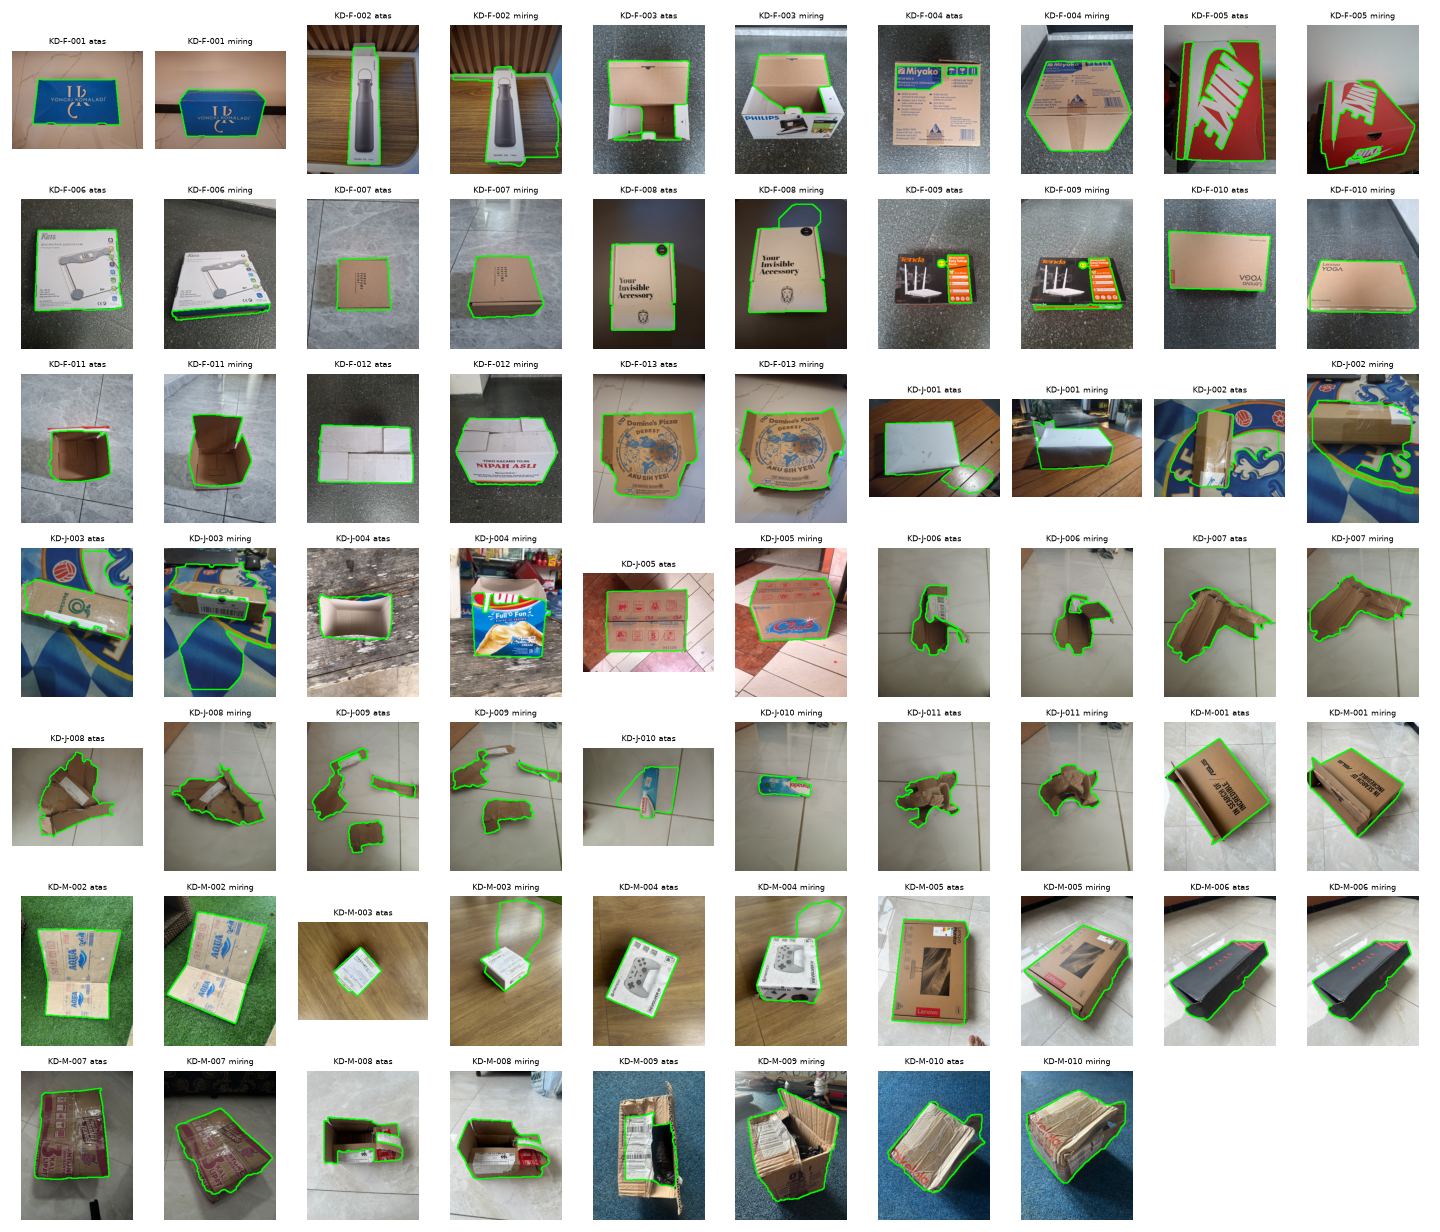
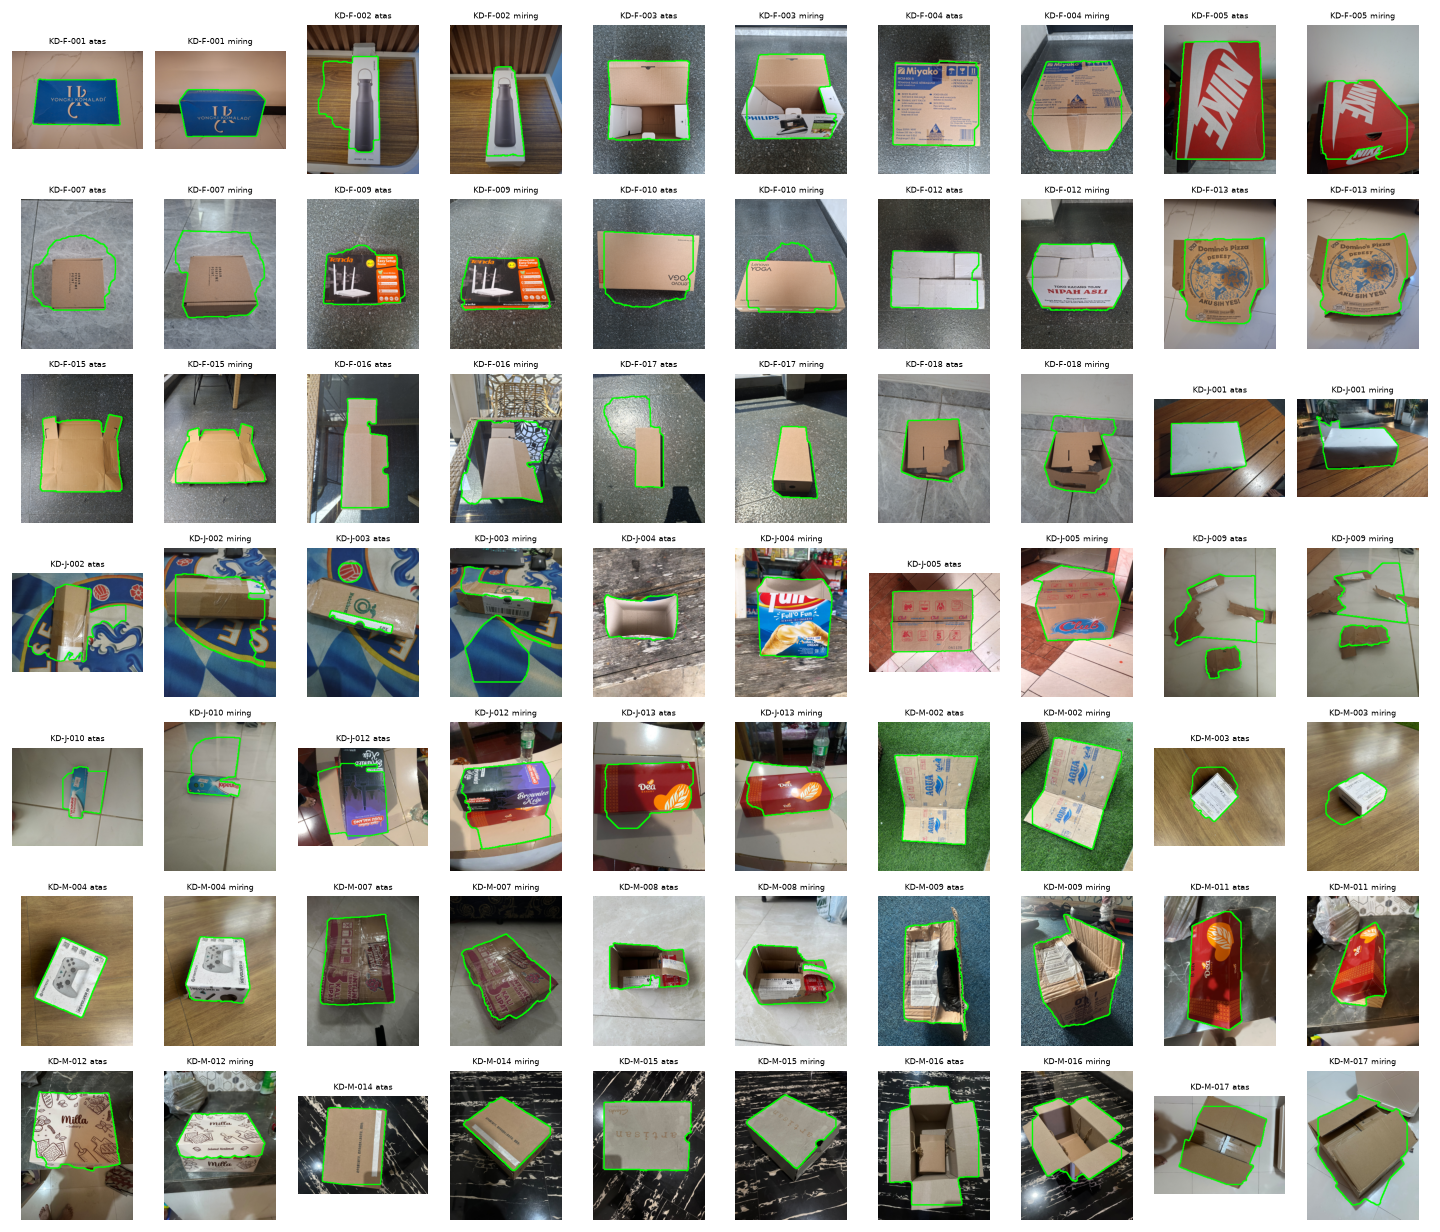
feat: switch segmentation to tuned GrabCut with ROI output

diff --git a/pcd/processing.py b/pcd/processing.py
@@ -1,4 +1,4 @@
-"""Operasi PCD dasar: perbaikan citra, segmentasi, morfologi, dan masking."""
+"""Operasi dasar PCD: enhancement, segmentasi, morfologi, dan masking."""
 
 import cv2
 import numpy as np
@@ -10,14 +10,14 @@ POLARITIES = ("border", "center")
 
 
 def histogram_equalization(img: np.ndarray) -> np.ndarray:
-    """Histogram equalization global pada kanal L (LAB); dipakai sebagai pembanding CLAHE."""
+    """Histogram equalization global pada kanal L, sebagai pembanding CLAHE."""
     lab = cv2.cvtColor(img, cv2.COLOR_BGR2LAB)
     lightness, a, b = cv2.split(lab)
     return cv2.cvtColor(cv2.merge((cv2.equalizeHist(lightness), a, b)), cv2.COLOR_LAB2BGR)
 
 
 def clahe(img: np.ndarray, clip: float = 2.0, tile: int = 8) -> np.ndarray:
-    """CLAHE pada kanal L (LAB) sehingga kontras naik tanpa mengubah warna."""
+    """Tingkatkan kontras citra menggunakan CLAHE pada kanal L."""
     lab = cv2.cvtColor(img, cv2.COLOR_BGR2LAB)
     lightness, a, b = cv2.split(lab)
     lightness = cv2.createCLAHE(clipLimit=clip, tileGridSize=(tile, tile)).apply(lightness)
@@ -25,20 +25,19 @@ def clahe(img: np.ndarray, clip: float = 2.0, tile: int = 8) -> np.ndarray:
 
 
 def gamma_correction(img: np.ndarray, gamma: float) -> np.ndarray:
-    """Koreksi gamma; gamma di bawah 1 mencerahkan, di atas 1 menggelapkan."""
+    """Terapkan koreksi gamma menggunakan lookup table."""
     table = ((np.arange(256) / 255.0) ** gamma * 255).round().astype(np.uint8)
     return cv2.LUT(img, table)
 
 
 def blur(img: np.ndarray, size: int = 5) -> np.ndarray:
-    """Gaussian blur untuk meredam noise dan tekstur halus sebelum threshold."""
     return cv2.GaussianBlur(img, (size, size), 0)
 
 
 def otsu_mask(img: np.ndarray, channel: str = "gray", polarity: str = "border") -> np.ndarray:
-    """Threshold Otsu pada kanal gray atau saturation, objek bernilai 255.
+    """Buat mask menggunakan threshold Otsu pada kanal grayscale atau saturation.
 
-    polarity "border" menganggap tepi foto sebagai latar, "center" menganggap tengah foto sebagai objek.
+    Polarity menentukan orientasi mask berdasarkan area tepi atau tengah citra.
     """
     if channel == "gray":
         values = cv2.cvtColor(img, cv2.COLOR_BGR2GRAY)
@@ -55,20 +54,20 @@ def otsu_mask(img: np.ndarray, channel: str = "gray", polarity: str = "border") 
 
 
 def background_at_border(mask: np.ndarray) -> np.ndarray:
-    """Balik mask kalau tepi foto lebih banyak putih, karena tepi dianggap latar."""
+    """Sesuaikan mask berdasarkan piksel pada tepi citra."""
     border = np.concatenate([mask[0], mask[-1], mask[:, 0], mask[:, -1]])
     return cv2.bitwise_not(mask) if border.mean() > 127 else mask
 
 
 def object_at_center(mask: np.ndarray) -> np.ndarray:
-    """Balik mask kalau bagian putihnya jarang ada di tengah foto."""
+    """Sesuaikan mask berdasarkan dominasi piksel foreground di tengah citra."""
     height, width = mask.shape
     center = mask[height // 4 : 3 * height // 4, width // 4 : 3 * width // 4]
     return cv2.bitwise_not(mask) if center.mean() < mask.mean() else mask
 
 
 def grabcut_mask(img: np.ndarray, margin: float = 0.05, iterations: int = 5) -> np.ndarray:
-    """GrabCut dengan kotak awal di tengah foto; yang di luar kotak dianggap latar pasti."""
+    """Segmentasikan objek menggunakan GrabCut dengan bounding box awal."""
     height, width = img.shape[:2]
     dx, dy = int(width * margin), int(height * margin)
     rect = (dx, dy, width - 2 * dx, height - 2 * dy)
@@ -77,7 +76,10 @@ def grabcut_mask(img: np.ndarray, margin: float = 0.05, iterations: int = 5) -> 
 
 
 def grabcut_from_mask(img: np.ndarray, seed: np.ndarray, border: float = 0.03, iterations: int = 5) -> np.ndarray:
-    """GrabCut yang dimulai dari mask tebakan; pita tipis di tepi foto dianggap latar pasti."""
+    """Perbaiki mask awal menggunakan GrabCut.
+
+    Area di sepanjang tepi citra ditetapkan sebagai background.
+    """
     height, width = img.shape[:2]
     labels = np.where(seed > 0, cv2.GC_PR_FGD, cv2.GC_PR_BGD).astype(np.uint8)
     band = max(int(min(height, width) * border), 1)
@@ -87,8 +89,6 @@ def grabcut_from_mask(img: np.ndarray, seed: np.ndarray, border: float = 0.03, i
 
 
 def run_grabcut(img: np.ndarray, labels: np.ndarray, rect, mode: int, iterations: int) -> np.ndarray:
-    """Jalankan GrabCut dan kembalikan mask objek 0/255."""
-    # GrabCut memakai k-means dengan titik awal acak, jadi seed dikunci agar hasilnya selalu sama.
     cv2.setRNGSeed(SEED)
     background_model = np.zeros((1, 65), np.float64)
     foreground_model = np.zeros((1, 65), np.float64)
@@ -98,17 +98,16 @@ def run_grabcut(img: np.ndarray, labels: np.ndarray, rect, mode: int, iterations
 
 
 def plausible_mask(mask: np.ndarray, min_area: float = 0.03, max_area: float = 0.8, max_border: float = 0.3) -> bool:
-    """Mask dianggap wajar kalau luasnya masuk akal dan tidak banyak menempel di tepi foto."""
+    """Validasi mask berdasarkan luas area dan proporsi piksel di tepi citra."""
     area = (mask > 0).mean()
     border = np.concatenate([mask[0], mask[-1], mask[:, 0], mask[:, -1]])
     return min_area <= area <= max_area and (border > 0).mean() <= max_border
 
 
 def clean_mask(mask: np.ndarray, size: int = 5, min_share: float = 0.1, fill_holes: bool = True) -> np.ndarray:
-    """Opening, closing, buang komponen kecil, lalu isi lubang kalau fill_holes aktif.
+    """Bersihkan mask melalui operasi morfologi dan seleksi contour.
 
-    Komponen disimpan kalau luasnya minimal min_share dari komponen terbesar, jadi potongan
-    sampah yang terpisah tetap ikut dan bintik kecil di latar terbuang.
+    Contour dipertahankan berdasarkan luas relatif terhadap contour terbesar.
     """
     kernel = cv2.getStructuringElement(cv2.MORPH_ELLIPSE, (size, size))
     mask = cv2.morphologyEx(mask, cv2.MORPH_OPEN, kernel)
@@ -123,15 +122,25 @@ def clean_mask(mask: np.ndarray, size: int = 5, min_share: float = 0.1, fill_hol
 
 
 def apply_mask(img: np.ndarray, mask: np.ndarray) -> np.ndarray:
-    """Hitamkan semua piksel di luar mask."""
     return cv2.bitwise_and(img, img, mask=mask)
 
 
 def crop_roi(img: np.ndarray, mask: np.ndarray, pad: int = 10) -> np.ndarray:
-    """Potong citra di sekitar objek dengan sedikit ruang; kalau mask kosong, citra dikembalikan utuh."""
+    """Crop area objek berdasarkan mask dengan tambahan padding.
+
+    Jika mask kosong, citra asli dikembalikan.
+    """
     points = cv2.findNonZero(mask)
     if points is None:
         return img
     x, y, width, height = cv2.boundingRect(points)
     top, left = max(y - pad, 0), max(x - pad, 0)
     return img[top : y + height + pad, left : x + width + pad]
+
+
+def pad_square(img: np.ndarray) -> np.ndarray:
+    """Tambahkan padding untuk mempertahankan rasio aspek citra."""
+    height, width = img.shape[:2]
+    size = max(height, width)
+    top, left = (size - height) // 2, (size - width) // 2
+    return cv2.copyMakeBorder(img, top, size - height - top, left, size - width - left, cv2.BORDER_CONSTANT, value=0)

diff --git a/pcd/pipeline.py b/pcd/pipeline.py
@@ -1,39 +1,48 @@
-"""Pipeline PCD yang dipakai ML, DL, dan demo.
+"""Pipeline PCD untuk ML, DL, dan demo.
 
-Kontrak run_pcd(img_bgr), dengan input yang sudah melalui core.image.resize_43:
-    "resized"   : citra input apa adanya (BGR)
-    "enhanced"  : citra setelah perbaikan kontras (BGR)
-    "mask"      : uint8 0/255, objek = 255, ukurannya sama dengan citra
-    "segmented" : citra enhanced dengan latar dihitamkan (BGR)
+run_pcd menerima citra hasil core.image.resize_43 dengan output:
+    "resized"   : citra input (BGR)
+    "enhanced"  : hasil CLAHE (BGR)
+    "mask"      : mask biner uint8 (objek = 255)
+    "segmented" : citra enhanced dengan background hitam (BGR)
+    "roi"       : crop objek berbentuk persegi (BGR)
 
-Isi pipeline masih sementara untuk Progress 2 dan ditetapkan di Progress 3 setelah dievaluasi dengan IoU/Dice.
+Segmentasi dilakukan pada citra asli menggunakan GrabCut, sedangkan CLAHE
+diterapkan pada citra hasil. Parameter GrabCut dituning menggunakan 30 citra
+train yang sudah dianotasi dengan hasil IoU: 0,885.
 """
 
 import numpy as np
 
 from pcd import processing
 
+GRABCUT_MARGIN = 0.10
+GRABCUT_RETRY_MARGIN = 0.05
+GRABCUT_ITERATIONS = 10
+ROI_PADDING = 10
+
 
 def run_pcd(img_bgr: np.ndarray) -> dict:
-    """CLAHE, segmentasi gabungan Otsu saturation dan GrabCut, morfologi, lalu masking."""
+    mask = segment(img_bgr)
     enhanced = processing.clahe(img_bgr)
-    mask = processing.clean_mask(segment(enhanced))
+    segmented = processing.apply_mask(enhanced, mask)
     return {
         "resized": img_bgr,
         "enhanced": enhanced,
         "mask": mask,
-        "segmented": processing.apply_mask(enhanced, mask),
+        "segmented": segmented,
+        "roi": processing.pad_square(processing.crop_roi(segmented, mask, ROI_PADDING)),
     }
 
 
 def segment(img: np.ndarray) -> np.ndarray:
-    """Otsu saturation sebagai tebakan awal GrabCut.
+    """Segmentasikan objek menggunakan GrabCut dan operasi morfologi.
 
-    Kalau tebakan atau hasil GrabCut-nya tidak wajar, GrabCut diulang dari kotak di tengah foto.
+    Jika mask kosong, GrabCut diulang dengan margin lebih kecil.
+    Jika masih kosong, seluruh citra digunakan sebagai foreground.
     """
-    seed = processing.clean_mask(processing.otsu_mask(processing.blur(img), "saturation"))
-    if processing.plausible_mask(seed):
-        mask = processing.grabcut_from_mask(img, seed)
-        if processing.plausible_mask(processing.clean_mask(mask)):
+    for margin in (GRABCUT_MARGIN, GRABCUT_RETRY_MARGIN):
+        mask = processing.clean_mask(processing.grabcut_mask(img, margin, GRABCUT_ITERATIONS))
+        if mask.any():
             return mask
-    return processing.grabcut_mask(img)
+    return np.full(img.shape[:2], 255, np.uint8)

diff --git a/pcd/scripts/run_pcd.py b/pcd/scripts/run_pcd.py
@@ -1,4 +1,4 @@
-"""Jalankan pipeline PCD ke semua foto, simpan hasilnya, dan buat contact sheet untuk pemeriksaan."""
+"""Jalankan pipeline PCD ke semua foto, simpan hasilnya, dan buat contact sheet foto train untuk pemeriksaan."""
 
 from pathlib import Path
 
@@ -50,7 +50,7 @@ def main() -> None:
     areas, plausible, previews = [], [], {}
     for number, raw_path in enumerate(photos["raw_path"], 1):
         result = run_pcd(resize_43(load_image(DATA_DIR / raw_path)))
-        for kind, image in (("pcd", result["segmented"]), ("masks", result["mask"])):
+        for kind, image in (("pcd", result["segmented"]), ("masks", result["mask"]), ("roi", result["roi"])):
             target = output_path(raw_path, kind)
             target.parent.mkdir(parents=True, exist_ok=True)
             cv2.imwrite(str(target), image)
@@ -60,16 +60,18 @@ def main() -> None:
         print(f"PCD {number}/{len(photos)}", end="\r")
     print()
 
-    qc = photos.assign(mask_area=areas, plausible=plausible)
+    # Val dan test tetap diproses, tetapi hanya train yang diperiksa supaya keputusan PCD tidak dipengaruhi data evaluasi.
+    qc = photos.assign(mask_area=areas, plausible=plausible).query("split == 'train'")
     for label in CLASSES:
         save_contact_sheet(qc, previews, label)
 
     flagged = qc[~qc["plausible"]]
-    print(f"Hasil PCD: {PROCESSED_DIR / 'pcd'}")
+    print(f"Hasil PCD: {PROCESSED_DIR / 'pcd'} ({len(photos)} foto)")
     print(f"Mask:      {PROCESSED_DIR / 'masks'}")
-    print(f"Contact sheet: {QC_DIR}")
-    print(f"Luas mask (median): {qc['mask_area'].median():.0%}")
-    print(f"Mask tidak wajar: {len(flagged)} dari {len(qc)} foto")
+    print(f"ROI:       {PROCESSED_DIR / 'roi'}")
+    print(f"Contact sheet (train): {QC_DIR}")
+    print(f"Luas mask train (median): {qc['mask_area'].median():.0%}")
+    print(f"Mask tidak wajar di train: {len(flagged)} dari {len(qc)} foto")
     if not flagged.empty:
         print(flagged[["object_id", "view", "split", "mask_area"]].round(2).to_string(index=False))
 

diff --git a/pcd/scripts/tune_segmentation.py b/pcd/scripts/tune_segmentation.py
@@ -10,7 +10,7 @@ from core.image import load_image, resize_43
 from pcd import processing
 from pcd.evaluate import dice, iou
 from pcd.scripts.annotate_gt import mask_path
-from pcd.scripts.evaluate_segmentation import OUTPUT_DIR, summarize
+from pcd.scripts.evaluate_segmentation import OUTPUT_DIR, otsu_grabcut, summarize
 from pcd.scripts.select_gt_photos import SELECTION_CSV
 
 INPUTS = {
@@ -29,24 +29,13 @@ def config_name(source: str, margin: float, iterations: int, fill_holes: bool) -
     return f"grabcut {source} m{margin:.2f} it{iterations} {'isi' if fill_holes else 'tanpa_isi'}"
 
 
-def otsu_center_segment(img):
-    """Pipeline lama, tapi sisi objek Otsu ditentukan dari tengah foto."""
-    enhanced = processing.clahe(img)
-    seed = processing.clean_mask(processing.otsu_mask(processing.blur(enhanced), "saturation", "center"))
-    if processing.plausible_mask(seed):
-        mask = processing.grabcut_from_mask(enhanced, seed)
-        if processing.plausible_mask(processing.clean_mask(mask)):
-            return processing.clean_mask(mask)
-    return processing.clean_mask(processing.grabcut_mask(enhanced))
-
-
 def predictions(img):
     """Jalankan semua setelan pada satu foto."""
     for source, margin, iterations in product(INPUTS, MARGINS, ITERATIONS):
         raw = processing.grabcut_mask(INPUTS[source](img), margin, iterations)
         for fill_holes in FILL_HOLES:
             yield config_name(source, margin, iterations, fill_holes), processing.clean_mask(raw, fill_holes=fill_holes)
-    yield OTSU_CENTER, otsu_center_segment(img)
+    yield OTSU_CENTER, otsu_grabcut(img, polarity="center")
 
 
 def main() -> None:

diff --git a/pcd/scripts/evaluate_segmentation.py b/pcd/scripts/evaluate_segmentation.py
@@ -17,12 +17,25 @@ OUTPUT_DIR = REPORTS_DIR / "pcd"
 FAILED_IOU = 0.5
 REFERENCE = "pipeline"
 
+
+def otsu_grabcut(img: np.ndarray, polarity: str = "border") -> np.ndarray:
+    """Pipeline Progress 2: tebakan Otsu saturation diteruskan ke GrabCut, dengan GrabCut kotak sebagai cadangan."""
+    enhanced = processing.clahe(img)
+    seed = processing.clean_mask(processing.otsu_mask(processing.blur(enhanced), "saturation", polarity))
+    if processing.plausible_mask(seed):
+        mask = processing.grabcut_from_mask(enhanced, seed)
+        if processing.plausible_mask(processing.clean_mask(mask)):
+            return processing.clean_mask(mask)
+    return processing.clean_mask(processing.grabcut_mask(enhanced))
+
+
 METHODS = {
     "otsu_gray": lambda img: processing.clean_mask(processing.otsu_mask(processing.blur(processing.clahe(img)), "gray")),
     "otsu_saturation": lambda img: processing.clean_mask(
         processing.otsu_mask(processing.blur(processing.clahe(img)), "saturation")
     ),
     "grabcut_rect": lambda img: processing.clean_mask(processing.grabcut_mask(processing.clahe(img))),
+    "otsu_grabcut": otsu_grabcut,
     "pipeline": lambda img: run_pcd(img)["mask"],
 }
 
